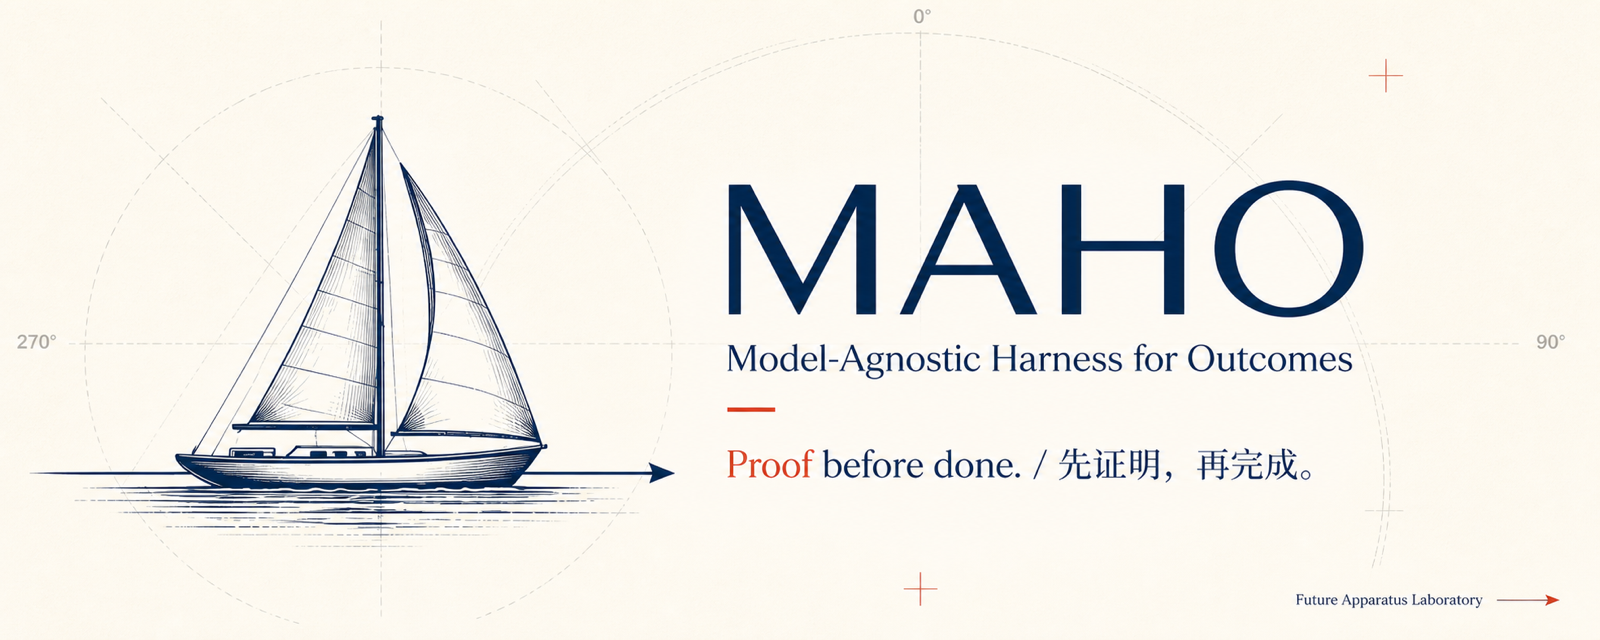
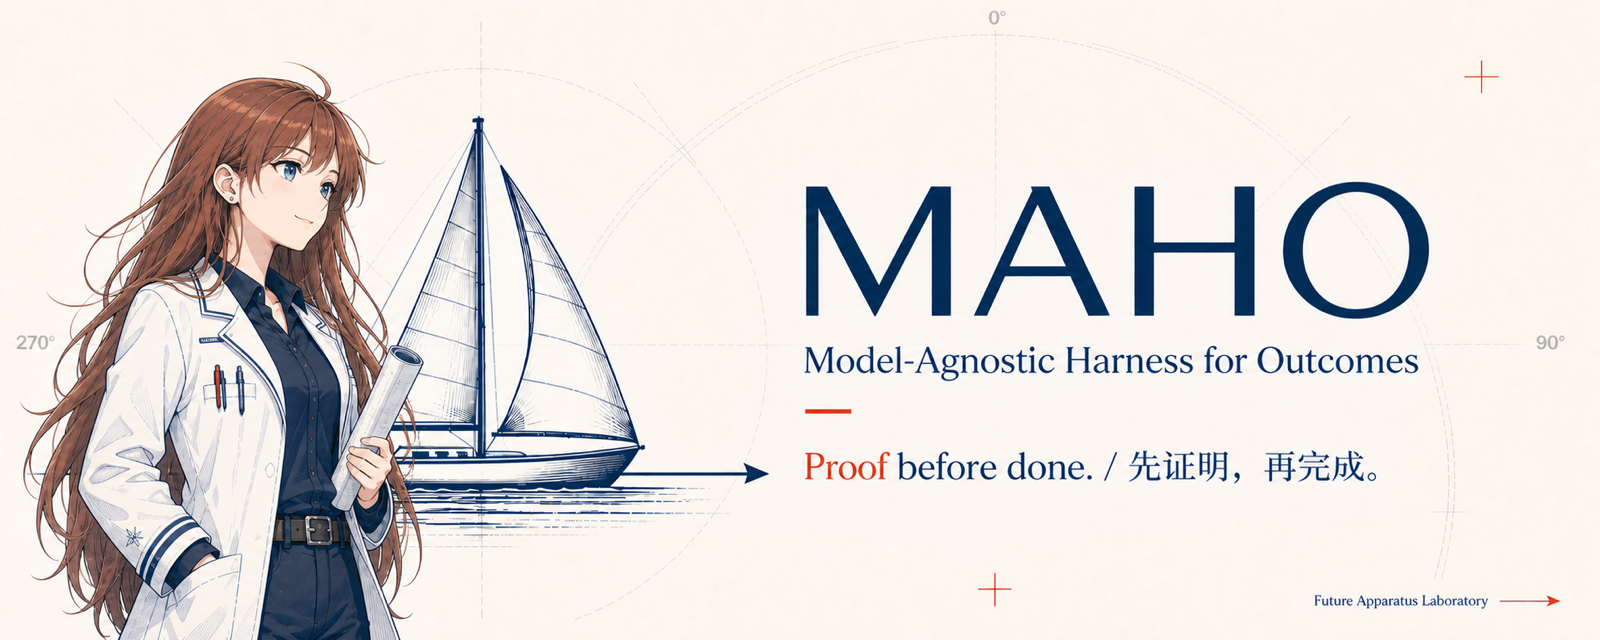
docs: add original MAHO research engineer artwork

diff --git a/tests/test_maho_release.py b/tests/test_maho_release.py
@@ -236,6 +236,15 @@ class MahoReleaseTests(unittest.TestCase):
             self.assertNotIn("App Icon", text)
             self.assertNotIn("应用图标", text)
 
+        english = (self.ROOT / "README.en.md").read_text(encoding="utf-8")
+        chinese = (self.ROOT / "README.zh-CN.md").read_text(encoding="utf-8")
+        trademarks = (self.ROOT / "TRADEMARKS.md").read_text(encoding="utf-8")
+        trademarks_zh = (self.ROOT / "TRADEMARKS.zh-CN.md").read_text(encoding="utf-8")
+        self.assertIn("original anime-style research engineer beside a sailboat", english)
+        self.assertIn("原创二次元研究工程师站在帆船旁", chinese)
+        self.assertIn("original artwork under `assets/brand/`", trademarks)
+        self.assertIn("`assets/brand/` 下的原创插画", trademarks_zh)
+
     def test_public_docs_freeze_verified_and_experimental_release_scope(self):
         english_readme = (self.ROOT / "README.en.md").read_text(encoding="utf-8")
         chinese_readme = (self.ROOT / "README.zh-CN.md").read_text(encoding="utf-8")

diff --git a/TRADEMARKS.md b/TRADEMARKS.md
@@ -1,7 +1,7 @@
 # Trademarks
 
-The Apache License 2.0 applies to MAHO's code and documentation, but it does not grant permission to use the MAHO name, the sailboat logo, studio identifiers, or confusingly similar marks to imply sponsorship, endorsement, or an official distribution.
+The Apache License 2.0 applies to MAHO's code and documentation, but it does not grant permission to use the MAHO name, the sailboat logo, original brand illustrations, studio identifiers, or confusingly similar marks to imply sponsorship, endorsement, or an official distribution.
 
 You may use the word MAHO truthfully to describe compatibility, forks, or the origin of the software. Modified distributions must make their relationship to the original project clear.
 
-Future Apparatus Laboratory stewards the MAHO name and sailboat logo as project identifiers. This policy does not claim that those marks are registered. No external trademark permission is implied beyond truthful descriptive use stated above.
+Future Apparatus Laboratory stewards the MAHO name, sailboat logo, and original artwork under `assets/brand/` as project identity assets. This policy does not claim that those marks are registered. No external trademark or artwork permission is implied beyond truthful descriptive use stated above.

diff --git a/TRADEMARKS.zh-CN.md b/TRADEMARKS.zh-CN.md
@@ -1,7 +1,7 @@
 # 商标说明
 
-Apache License 2.0 适用于 MAHO 的代码和文档，但不授予使用 MAHO 名称、帆船 Logo、工作室识别元素或易混淆标识来暗示赞助、背书或官方发行的权利。
+Apache License 2.0 适用于 MAHO 的代码和文档，但不授予使用 MAHO 名称、帆船 Logo、原创品牌插画、工作室识别元素或易混淆标识来暗示赞助、背书或官方发行的权利。
 
 您可以如实使用 MAHO 一词描述兼容性、分支版本或软件来源。修改后的发行版必须清楚说明它与原项目的关系。
 
-Future Apparatus Laboratory 维护 MAHO 名称和帆船 Logo，作为本项目识别标识。本说明不声称上述标识已经注册；除前述如实描述性使用外，不暗示授予任何外部商标许可。
+Future Apparatus Laboratory 维护 MAHO 名称、帆船 Logo 与 `assets/brand/` 下的原创插画，作为本项目身份资产。本说明不声称上述标识已经注册；除前述如实描述性使用外，不暗示授予任何外部商标或插画使用许可。

diff --git a/README.zh-CN.md b/README.zh-CN.md
@@ -1,5 +1,5 @@
 <p align="center">
-  <img src="https://raw.githubusercontent.com/Do-fei/maho-harness/main/assets/brand/maho-readme-banner.png" alt="MAHO — Model-Agnostic Harness for Outcomes。先证明，再完成。" width="100%">
+  <img src="https://raw.githubusercontent.com/Do-fei/maho-harness/main/assets/brand/maho-readme-banner.png" alt="MAHO 横幅：原创二次元研究工程师站在帆船旁。Model-Agnostic Harness for Outcomes。先证明，再完成。" width="100%">
 </p>
 
 <p align="center">

diff --git a/README.en.md b/README.en.md
@@ -1,5 +1,5 @@
 <p align="center">
-  <img src="https://raw.githubusercontent.com/Do-fei/maho-harness/main/assets/brand/maho-readme-banner.png" alt="MAHO — Model-Agnostic Harness for Outcomes. Proof before done." width="100%">
+  <img src="https://raw.githubusercontent.com/Do-fei/maho-harness/main/assets/brand/maho-readme-banner.png" alt="MAHO banner: an original anime-style research engineer beside a sailboat. Model-Agnostic Harness for Outcomes. Proof before done." width="100%">
 </p>
 
 <p align="center">

diff --git a/README.md b/README.md
@@ -1,5 +1,5 @@
 <p align="center">
-  <img src="https://raw.githubusercontent.com/Do-fei/maho-harness/main/assets/brand/maho-readme-banner.png" alt="MAHO — Model-Agnostic Harness for Outcomes. Proof before done." width="100%">
+  <img src="https://raw.githubusercontent.com/Do-fei/maho-harness/main/assets/brand/maho-readme-banner.png" alt="MAHO banner: an original anime-style research engineer beside a sailboat. Model-Agnostic Harness for Outcomes. Proof before done." width="100%">
 </p>
 
 <p align="center">

diff --git a/NOTICE.zh-CN.md b/NOTICE.zh-CN.md
@@ -6,4 +6,4 @@ Copyright 2026 MAHO contributors
 本产品包含由 MAHO 贡献者开发的软件。
 项目身份与标识由 Future Apparatus Laboratory 维护。
 
-MAHO 名称和帆船 Logo 不在 Apache License 2.0 的授权范围内，详见 [`TRADEMARKS.zh-CN.md`](TRADEMARKS.zh-CN.md)。英文 `NOTICE` 为正式版本。
+MAHO 名称、帆船 Logo 与原创品牌插画不在 Apache License 2.0 的授权范围内，详见 [`TRADEMARKS.zh-CN.md`](TRADEMARKS.zh-CN.md)。英文 `NOTICE` 为正式版本。
